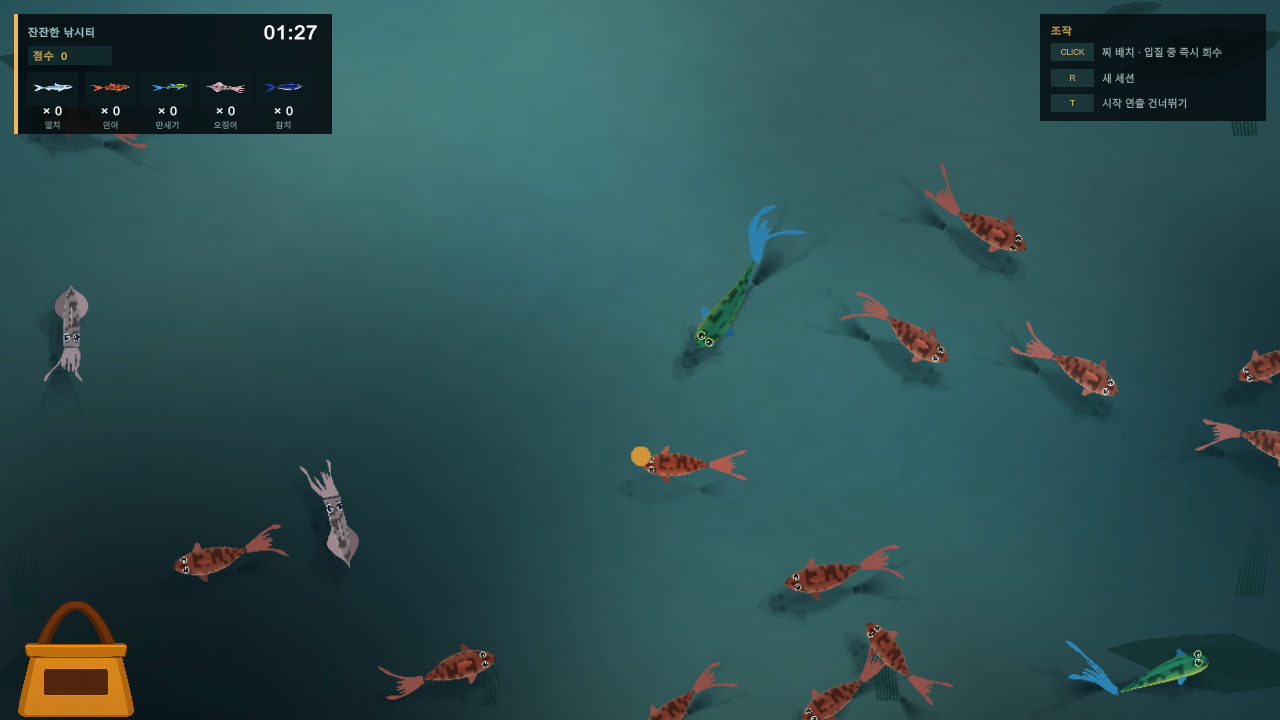
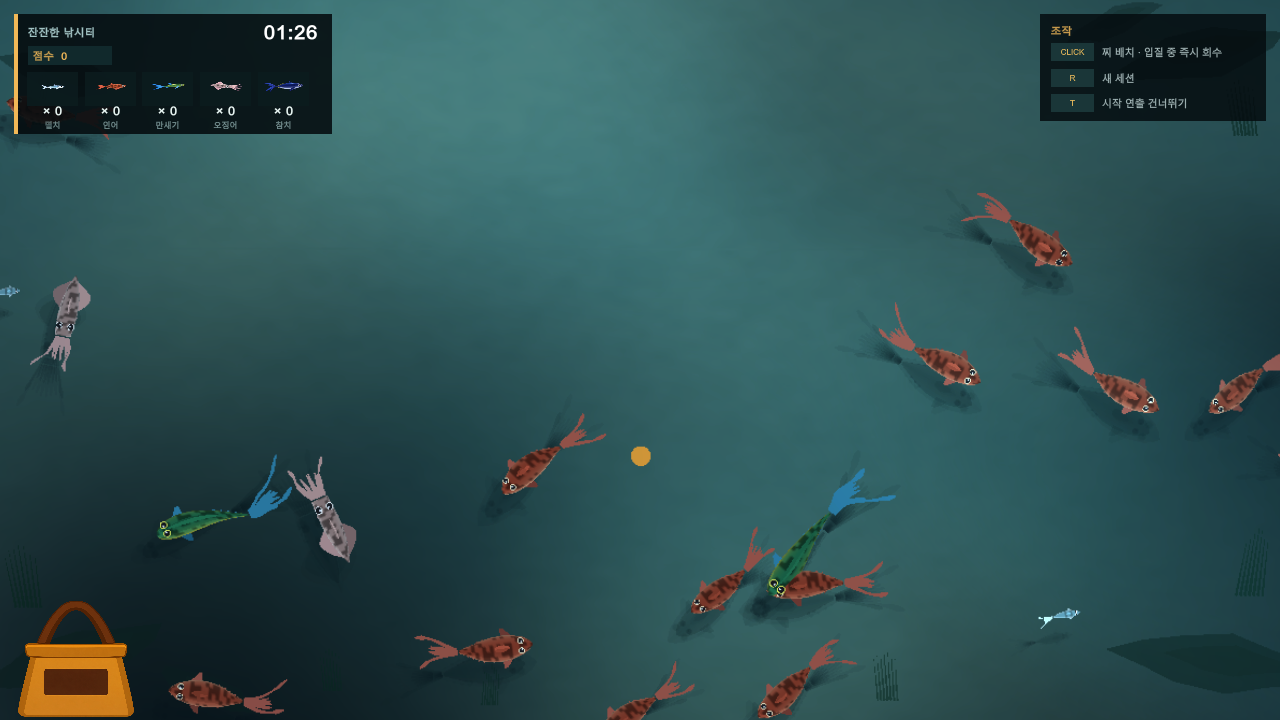
feat: scale HUD portraits by species

diff --git a/UnityProject/Assets/FishingV2/Scripts/Core/FishingV2Catalog.cs b/UnityProject/Assets/FishingV2/Scripts/Core/FishingV2Catalog.cs
@@ -123,6 +123,7 @@ namespace Fishing.V2
             {
                 SpeciesId = "anchovy",
                 DisplayName = "멸치",
+                HudIconScale = 0.58f,
                 PathType = FishPathType.Lane,
                 BaseScore = 2,
                 Zone = new Vector2(.05f, .45f),
@@ -169,6 +170,7 @@ namespace Fishing.V2
             {
                 SpeciesId = "salmon",
                 DisplayName = "연어",
+                HudIconScale = 0.78f,
                 PathType = FishPathType.Lane,
                 BaseScore = 1,
                 Zone = new Vector2(.05f, .95f),
@@ -215,6 +217,7 @@ namespace Fishing.V2
             {
                 SpeciesId = "mahi",
                 DisplayName = "만새기",
+                HudIconScale = 0.86f,
                 PathType = FishPathType.Loop,
                 BaseScore = 3,
                 Zone = new Vector2(.25f, .75f),
@@ -271,6 +274,7 @@ namespace Fishing.V2
             {
                 SpeciesId = "squid",
                 DisplayName = "오징어",
+                HudIconScale = 0.82f,
                 PathType = FishPathType.HoverDash,
                 BaseScore = 5,
                 Zone = new Vector2(.20f, .80f),
@@ -323,6 +327,7 @@ namespace Fishing.V2
             {
                 SpeciesId = "tuna",
                 DisplayName = "참치",
+                HudIconScale = 1.00f,
                 PathType = FishPathType.Loop,
                 BaseScore = 30,
                 Zone = new Vector2(.50f, .95f),

diff --git a/UnityProject/Assets/FishingV2/Scripts/Runtime/FishingV2Session.cs b/UnityProject/Assets/FishingV2/Scripts/Runtime/FishingV2Session.cs
@@ -2130,8 +2130,18 @@ namespace Fishing.V2
                 {
                     GUI.color = Fade(Color.white, hud);
                     // 제공된 아이콘은 정사각형 캔버스 안에 가로형 물고기가 들어 있다.
-                    // 슬롯도 가로로 채워 실제 실루엣이 수량보다 먼저 읽히게 한다.
-                    GUI.DrawTexture(new Rect(x + 2f * scale, rowY + 2f * scale, 60f * scale, 34f * scale), icon, ScaleMode.StretchToFill, true);
+                    // 슬롯 크기는 유지하고 초상만 어종별 인지 크기로 조절한다. 참치가 상한이며,
+                    // 멸치는 확실히 작게 보여도 수량과 이름의 정렬은 흔들리지 않는다.
+                    float portraitScale = Mathf.Clamp(species.HudIconScale, 0.45f, 1f);
+                    float portraitWidth = 60f * portraitScale * scale;
+                    float portraitHeight = 34f * portraitScale * scale;
+                    float portraitX = x + (64f * scale - portraitWidth) * 0.5f;
+                    float portraitY = rowY + (36f * scale - portraitHeight) * 0.5f;
+                    GUI.DrawTexture(
+                        new Rect(portraitX, portraitY, portraitWidth, portraitHeight),
+                        icon,
+                        ScaleMode.StretchToFill,
+                        true);
                 }
 
                 int count = _caught.TryGetValue(speciesId, out int value) ? value : 0;

diff --git a/UnityProject/Assets/FishingV2/Scripts/Editor/FishingV2HudAssetSetup.cs b/UnityProject/Assets/FishingV2/Scripts/Editor/FishingV2HudAssetSetup.cs
@@ -23,6 +23,14 @@ namespace Fishing.V2.EditorTools
                 { "squid", ArtRoot + "Hud_Squid.png" },
                 { "tuna", ArtRoot + "Hud_Tuna.png" }
             };
+            Dictionary<string, float> iconScales = new Dictionary<string, float>
+            {
+                { "anchovy", 0.58f },
+                { "salmon", 0.78f },
+                { "mahi", 0.86f },
+                { "squid", 0.82f },
+                { "tuna", 1.00f }
+            };
 
             foreach (KeyValuePair<string, string> entry in icons)
             {
@@ -37,6 +45,7 @@ namespace Fishing.V2.EditorTools
                 }
 
                 species.Data.HudIcon = icon;
+                species.Data.HudIconScale = iconScales[entry.Key];
                 EditorUtility.SetDirty(species);
             }
 

diff --git a/UnityProject/Assets/FishingV2/Scripts/Core/FishingV2Types.cs b/UnityProject/Assets/FishingV2/Scripts/Core/FishingV2Types.cs
@@ -369,6 +369,9 @@ namespace Fishing.V2
         [Header("Presentation")]
         [Tooltip("Optional HUD portrait. When empty, the runtime builds a small portrait from the species visual data.")]
         public Texture2D HudIcon;
+        [Range(0.45f, 1f)]
+        [Tooltip("Relative portrait size inside the fixed HUD slot. Tuna uses 1.0 as the visual ceiling.")]
+        public float HudIconScale = 1f;
         // Normalized distance below the surface. A negative range means that legacy data
         // should fall back to a stable zone-derived depth in FishAgentV2.
         public FloatRange VisualDepth = new FloatRange(-1f, -1f);

diff --git a/README.md b/README.md
@@ -13,9 +13,9 @@
 | | 링크 |
 |---|---|
 | 브라우저에서 실행 | [HTML Prototype](https://chungheonlee0325.github.io/FishingIsGood/HTML/) |
-| HTML 파일 다운로드 | [HTML ZIP](https://github.com/chungheonLee0325/FishingIsGood/releases/download/v0.1.2/FishingIsGood-HTML.zip) |
-| Windows x64 실행 파일 | [Windows ZIP](https://github.com/chungheonLee0325/FishingIsGood/releases/download/v0.1.2/FishingIsGood-Windows-x64.zip) |
-| 릴리스 / 파일 검증값 | [v0.1.2](https://github.com/chungheonLee0325/FishingIsGood/releases/tag/v0.1.2) |
+| HTML 파일 다운로드 | [HTML ZIP](https://github.com/chungheonLee0325/FishingIsGood/releases/download/v0.1.3/FishingIsGood-HTML.zip) |
+| Windows x64 실행 파일 | [Windows ZIP](https://github.com/chungheonLee0325/FishingIsGood/releases/download/v0.1.3/FishingIsGood-Windows-x64.zip) |
+| 릴리스 / 파일 검증값 | [v0.1.3](https://github.com/chungheonLee0325/FishingIsGood/releases/tag/v0.1.3) |
 
 수면을 클릭하면 찌를 놓습니다. 물고기가 물면 잠시 뒤 자동으로 회수하며, 그 전에 클릭하면 바로 회수할 수 있습니다. Windows 빌드는 ZIP 전체를 풀고 `FishingIsGood.exe`를 실행하면 됩니다.
 
